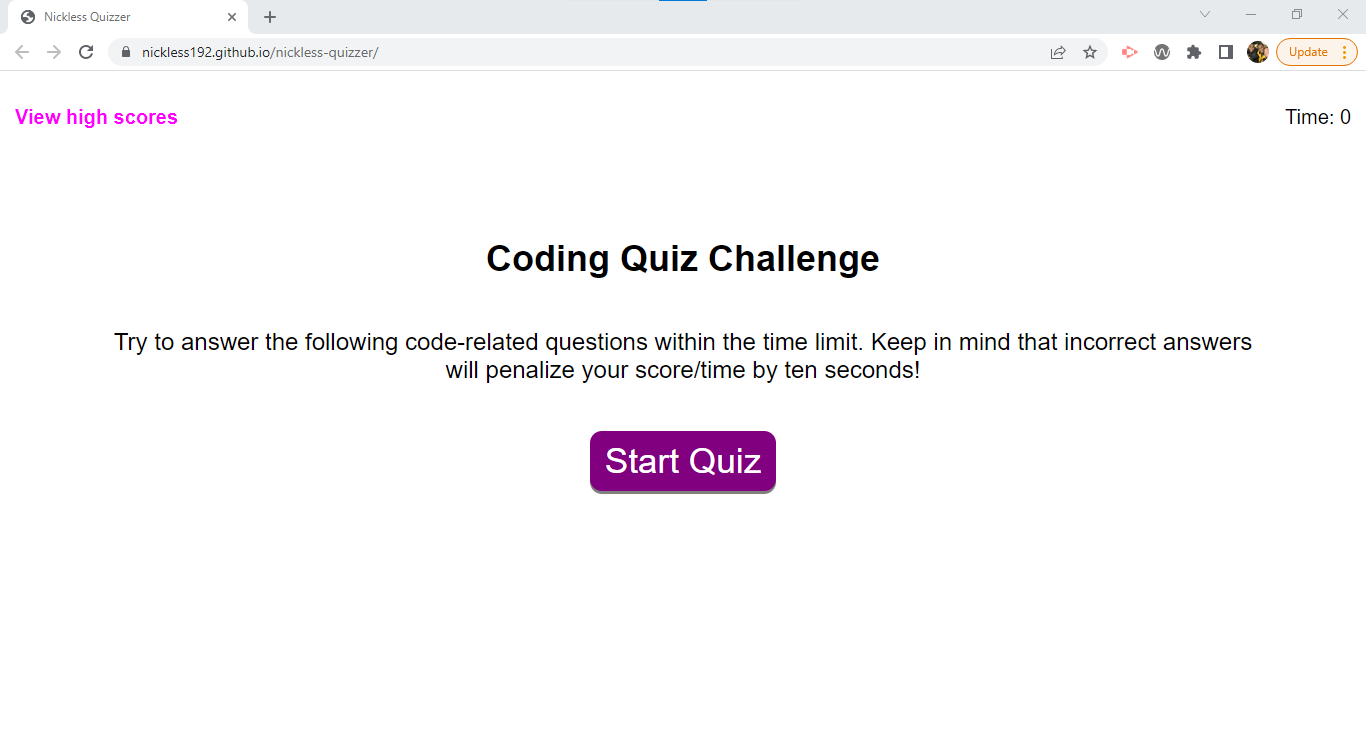
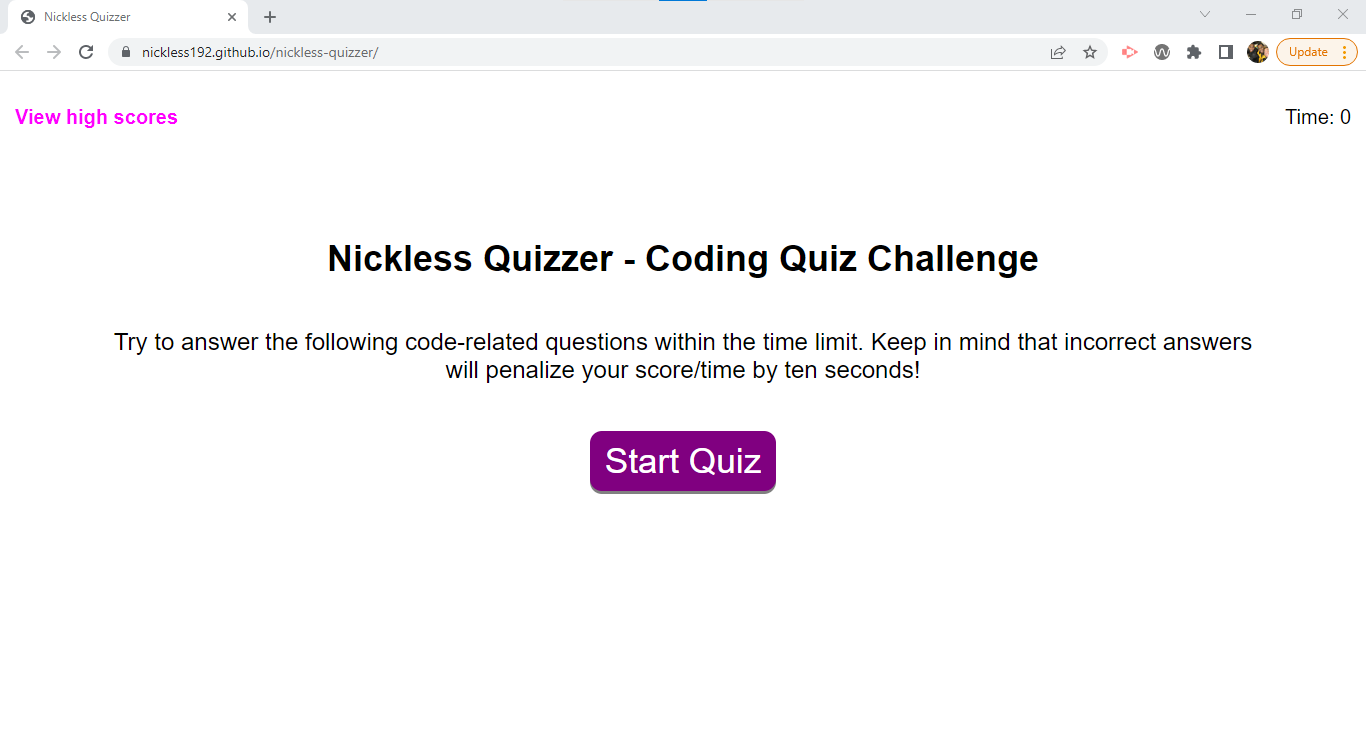
update readme

Changed region(s): [[0.2152, 0.3117, 0.7687, 0.374]]

diff --git a/Readme.md b/Readme.md
@@ -1,29 +1,36 @@
 # Nickless Quizzer
 
 ## Description
+Welcome to the Nickless Quizzer! This assessment tool will present the user with up to 20 multiple choice questions to answer within 75 seconds. For each correct answer, a point is awarded to the user; for each wrong answer, 5 seconds are deducted from the timer. The assessment ends when either all 20 questions have been answered or if the timer runs out.
+
+The assessment starts with a simple page asking the user to start the quiz. Once clicked, the first question is shown on screen, and the user can hover over the answer buttons and click on it to choose it. At this point, the answer validation is performed, and at the bottom of the page we will provide feedback, either "Correct" or "Wrong".
+
+After reaching the end of the quiz, the user will have the opportunity to save their score alongside their initials so that this can be later viewed in the "View High Scores" page.
+
+Accessing the "View High Scores" is done from the main page only, and this is done to ensure that the user doesn't get distracted while doing the assessment. On the "View High Scores" page, the user will be shown all previous scores from previous users and will be given the option to clear all scores from memory and to go back to the previous page.
 
 ## User Story
-AS A coding boot camp student
-I WANT to take a timed quiz on JavaScript fundamentals that stores high scores
-SO THAT I can gauge my progress compared to my peers
+AS A coding boot camp student<br />
+I WANT to take a timed quiz on JavaScript fundamentals that stores high scores<br />
+SO THAT I can gauge my progress compared to my peers<br />
 
 ## Acceptance Criteria
-GIVEN I am taking a code quiz
-WHEN I click the start button
-THEN a timer starts and I am presented with a question
-WHEN I answer a question
-THEN I am presented with another question
-WHEN I answer a question incorrectly
-THEN time is subtracted from the clock
-WHEN all questions are answered or the timer reaches 0
-THEN the game is over
-WHEN the game is over
-THEN I can save my initials and score
+GIVEN I am taking a code quiz<br />
+WHEN I click the start button<br />
+THEN a timer starts and I am presented with a question<br />
+WHEN I answer a question<br />
+THEN I am presented with another question<br />
+WHEN I answer a question incorrectly<br />
+THEN time is subtracted from the clock<br />
+WHEN all questions are answered or the timer reaches 0<br />
+THEN the game is over<br />
+WHEN the game is over<br />
+THEN I can save my initials and score<br />
 
 ## Screenshot of Deployed Site
 
-### Password Generator Landing Page
- ![Password Generator Landing Page](./assets/images/random-password-generator-screenshot.png)
+### Nickless Quizzer Landing Page
+ ![Nickless Quizzer Landing Page](./assets/images/nickless-quizzer-screenshot.png)
 
 
 ## Links
